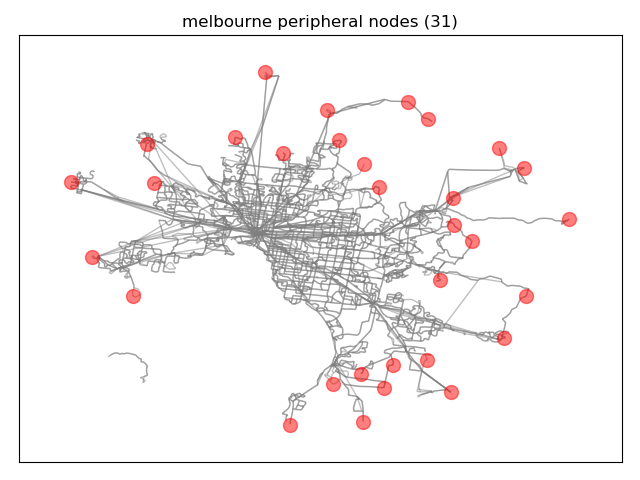
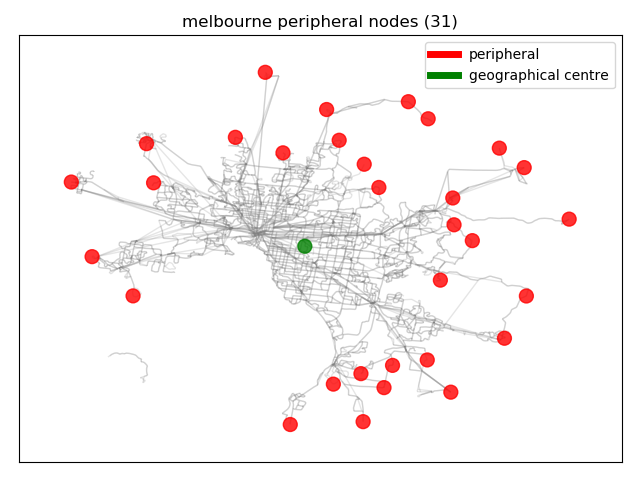
update peripheral nodes visualization

diff --git a/plot_distances.py b/plot_distances.py
@@ -7,6 +7,7 @@ if __name__ == '__main__':
 
     cities = nf.get_list_cities_names()
     capitals = nf.get_capital_cities()
+    capital_poi = nf.get_capitals_with_central_station_node()
     clusters = nf.get_cluster_dict_for_area()
 
     bfs_random = nf.load_json('results/all/json/bfs_all.json')
@@ -27,120 +28,126 @@ if __name__ == '__main__':
         if not os.path.exists(dir_plots):
             os.makedirs(dir_plots)
 
-        ''' Distances distributions: two histograms with info about mean and standard deviation '''
-        bfs_list = [value for value in bfs_random[i] if value != 0]
-        eu_list = [value for value in eu_random[i] if value != 0]
-
-        # create a third array with the fractions
-        f = [x/y for (x, y) in zip(eu_list, bfs_list)]
-        fractions[city] = f
-
-        # plot both distribution for the single city in one p the lot
-        colors = ['skyblue', 'red']
-        bins = [int(np.sqrt(len(bfs_list))/10), int(np.sqrt(len(eu_list))/10)]
-        fig, params = nf.plot_distances_for_single_city(first=bfs_list, second=eu_list, colors=colors,
-                                                        labels=["bfs", "euclidean"], bins=bins,
-                                                        xlabel='Distance in km from start node', ylabel='P(distance)')
-        # fig.show()
-        fig_name = dir_plots+'distances_histo.png'
-        fig.savefig(fig_name)
-
-        mu_st[city] = params
-
-        ''' Close and far nodes distribution from central node '''
-        close_distances = nf.load_json('results/'+city+'/distance_analysis/json/bfs_close.json')
-        far_distances = nf.load_json('results/'+city+'/distance_analysis/json/bfs_far.json')
-
-        first = list(close_distances.values())
-        second = list(far_distances.values())
-        bins = [int(np.sqrt(len(first))), int(np.sqrt(len(second)))]
-        fig1, _ = nf.plot_distances_for_single_city(first=first, second=second, colors=colors,
-                                                    labels=["close nodes", "far nodes"], bins=bins,
-                                                    xlabel='Distance in km from central node', ylabel='P(distance)')
-        fig_name = dir_plots+'close_far_distances.png'
-        fig1.savefig(fig_name)
+        # ''' Distances distributions: two histograms with info about mean and standard deviation '''
+        # bfs_list = [value for value in bfs_random[i] if value != 0]
+        # eu_list = [value for value in eu_random[i] if value != 0]
+        #
+        # # create a third array with the fractions
+        # f = [x/y for (x, y) in zip(eu_list, bfs_list)]
+        # fractions[city] = f
+        #
+        # # plot both distribution for the single city in one p the lot
+        # colors = ['skyblue', 'red']
+        # bins = [int(np.sqrt(len(bfs_list))/10), int(np.sqrt(len(eu_list))/10)]
+        # fig, params = nf.plot_distances_for_single_city(first=bfs_list, second=eu_list, colors=colors,
+        #                                                 labels=["bfs", "euclidean"], bins=bins,
+        #                                                 xlabel='Distance in km from start node', ylabel='P(distance)')
+        # # fig.show()
+        # fig_name = dir_plots+'distances_histo.png'
+        # fig.savefig(fig_name)
+        #
+        # mu_st[city] = params
+        #
+        # ''' Close and far nodes distribution from central node '''
+        # close_distances = nf.load_json('results/'+city+'/distance_analysis/json/bfs_close.json')
+        # far_distances = nf.load_json('results/'+city+'/distance_analysis/json/bfs_far.json')
+        #
+        # first = list(close_distances.values())
+        # second = list(far_distances.values())
+        # bins = [int(np.sqrt(len(first))), int(np.sqrt(len(second)))]
+        # fig1, _ = nf.plot_distances_for_single_city(first=first, second=second, colors=colors,
+        #                                             labels=["close nodes", "far nodes"], bins=bins,
+        #                                             xlabel='Distance in km from central node', ylabel='P(distance)')
+        # fig_name = dir_plots+'close_far_distances.png'
+        # fig1.savefig(fig_name)
 
         ''' Plot 1-CDF curve of distances from central node '''
         central_bfs = nf.load_json('results/'+city+'/distance_analysis/json/bfs_central.json')
-        central_eu = nf.load_json('results/'+city+'/distance_analysis/json/eu_central.json')
-        datavecs = [list(central_bfs.values()), list(central_eu.values())]
-        fig, _ = nf.plot_ccdf(datavecs=datavecs, labels=['bfs', 'euclidean'], xlabel='Distance in km', ylabel='1-CDF',
-                              marker='^')
-        fig_name = dir_plots+'ccdf_central.png'
-        fig.savefig(fig_name)
-
-        ''' Same plot but from POI node - just for capitals '''
-        if city in capitals:
-            close_distances = nf.load_json('results/' + city + '/distance_analysis/json/capital_bfs_close.json')
-            far_distances = nf.load_json('results/' + city + '/distance_analysis/json/capital_bfs_far.json')
-
-            first = list(close_distances.values())
-            second = list(far_distances.values())
-            bins = [int(np.sqrt(len(first))), int(np.sqrt(len(second)))]
-            fig1, _ = nf.plot_distances_for_single_city(first=first, second=second, colors=colors,
-                                                        labels=["close nodes", "far nodes"], bins=bins,
-                                                        xlabel='Distance in km from POI central node',
-                                                        ylabel='P(distance)')
-
-            # fig1.show()
-            fig_name = dir_plots + 'capital_close_far_distances.png'
-            fig1.savefig(fig_name)
-
-            central_bfs_capital = nf.load_json('results/' + city + '/distance_analysis/json/capital_bfs_central.json')
-            central_eu_capital = nf.load_json('results/' + city + '/distance_analysis/json/capital_eu_central.json')
-            datavecs = [list(central_bfs_capital.values()), list(central_eu_capital.values())]
-            fig, _ = nf.plot_ccdf(datavecs=datavecs, labels=['bfs', 'euclidean'], xlabel='Distance in km',
-                                  ylabel='1-CDF', marker='^')
-            fig_name = dir_plots + 'ccdf_central_POI.png'
-            fig.savefig(fig_name)
+        # central_eu = nf.load_json('results/'+city+'/distance_analysis/json/eu_central.json')
+        # datavecs = [list(central_bfs.values()), list(central_eu.values())]
+        # fig, _ = nf.plot_ccdf(datavecs=datavecs, labels=['bfs', 'euclidean'], xlabel='Distance in km', ylabel='1-CDF',
+        #                       marker='^')
+        # fig_name = dir_plots+'ccdf_central.png'
+        # fig.savefig(fig_name)
+        #
+        # ''' Same plot but from POI node - just for capitals '''
+        # if city in capitals:
+        #     close_distances = nf.load_json('results/' + city + '/distance_analysis/json/capital_bfs_close.json')
+        #     far_distances = nf.load_json('results/' + city + '/distance_analysis/json/capital_bfs_far.json')
+        #
+        #     first = list(close_distances.values())
+        #     second = list(far_distances.values())
+        #     bins = [int(np.sqrt(len(first))), int(np.sqrt(len(second)))]
+        #     fig1, _ = nf.plot_distances_for_single_city(first=first, second=second, colors=colors,
+        #                                                 labels=["close nodes", "far nodes"], bins=bins,
+        #                                                 xlabel='Distance in km from POI central node',
+        #                                                 ylabel='P(distance)')
+        #
+        #     # fig1.show()
+        #     fig_name = dir_plots + 'capital_close_far_distances.png'
+        #     fig1.savefig(fig_name)
+        #
+        #     central_bfs_capital = nf.load_json('results/' + city + '/distance_analysis/json/capital_bfs_central.json')
+        #     central_eu_capital = nf.load_json('results/' + city + '/distance_analysis/json/capital_eu_central.json')
+        #     datavecs = [list(central_bfs_capital.values()), list(central_eu_capital.values())]
+        #     fig, _ = nf.plot_ccdf(datavecs=datavecs, labels=['bfs', 'euclidean'], xlabel='Distance in km',
+        #                           ylabel='1-CDF', marker='^')
+        #     fig_name = dir_plots + 'ccdf_central_POI.png'
+        #     fig.savefig(fig_name)
 
         plt.close('all')
 
-        ''' Cumulative distribution of distances from central node '''
-
         ''' Network plot of periferal nodes '''
         peripheral_dict = nf.load_json('results/'+city+'/distance_analysis/json/peripheral_nodes.json')
-        peripheral_nodes = [int(node) for node, is_peripheral in peripheral_dict.items() if is_peripheral is True]
+        # peripheral_nodes = [int(node) for node, is_peripheral in peripheral_dict.items() if is_peripheral is True]
+        peripheral_nodes = {int(node): 'r' for node, is_peripheral in peripheral_dict.items()
+                            if is_peripheral is True}
+        n_peripheral = len(peripheral_nodes)
+        central_node = int(list(central_bfs.keys())[0])
+        peripheral_nodes[central_node] = 'g'
+        if city in capitals:
+            central_poi = capital_poi[city]
+            peripheral_nodes[central_poi] = 'b'
 
         net = nf.create_network(city, types=nf.get_types_of_transport_and_colors())
-        percentage = (len(peripheral_nodes) / len(net.nodes()))*100
+        percentage = (n_peripheral / len(net.nodes()))*100
         print('There are %d peripheral nodes.\n They represent %d %% of all the nodes.'
-              % (len(peripheral_nodes), percentage))
-        fig, ax = nf.plot_network(net, node_list=peripheral_nodes)
-        ax.set_title(city+' peripheral nodes (%d)' % len(peripheral_nodes))
+              % (n_peripheral, percentage))
+        fig, ax = nf.plot_network(net, node_dict=peripheral_nodes)
+        ax.set_title(city+' peripheral nodes (%d)' % n_peripheral)
         fig.show()
         fig_name = dir_plots+'network_peripheral_nodes.png'
         fig.savefig(fig_name)
 
-    nf.dump_json('results/all/json/parameter_distances.json', mu_st)
-
-    for cluster, values in clusters.items():
-
-        f = {k: v for k, v in fractions.items() if k in values}
-        fig = nf.plot_distances_fractions(f)
-        dir_name = './results/all/plots/distances/fractions/'
-        if not os.path.exists(dir_name):
-            os.makedirs(dir_name)
-        fig_name = dir_name+'fractions_'+cluster+'_.png'
-        fig.savefig(fig_name, bbox_inches='tight')
-
-    dict_mu_st = nf.load_json('results/all/json/parameter_distances.json')
-    ordered_dict = sorted(dict_mu_st.items(), key=lambda item: item[1][0])
-    labels_bfs = [elem[0] for elem in ordered_dict]
-
-    area_population_dict_ordered = nf.order_dict_based_on_list_keys(area_population_dict, labels_bfs)
-    areas = [v['area'] for k, v in area_population_dict_ordered.items()]
-
-    fig = nf.plot_bars_mu_st(labels=labels_bfs, mus=[elem[1][0] for elem in ordered_dict],
-                             sts=[elem[1][1] for elem in ordered_dict], ylabel='Distance in km', color='skyblue',
-                             title='BFS distances from random source nodes', feature=areas, feature_label='Area')
-    # fig.show()
-    fig_name = './results/all/plots/distances/bfs_bar_mu_st.png'
-    fig.savefig(fig_name, bbox_inches='tight')
-
-    fig = nf.plot_bars_mu_st(labels=labels_bfs, mus=[elem[1][2] for elem in ordered_dict],
-                             sts=[elem[1][3] for elem in ordered_dict], ylabel='Distance in km', color='red',
-                             title='EUCLIDEAN distances from random source nodes', feature=areas, feature_label='Area')
-    # fig.show()
-    fig_name = './results/all/plots/distances/eu_bar_mu_st.png'
-    fig.savefig(fig_name, bbox_inches='tight')
+    # nf.dump_json('results/all/json/parameter_distances.json', mu_st)
+    #
+    # for cluster, values in clusters.items():
+    #
+    #     f = {k: v for k, v in fractions.items() if k in values}
+    #     fig = nf.plot_distances_fractions(f)
+    #     dir_name = './results/all/plots/distances/fractions/'
+    #     if not os.path.exists(dir_name):
+    #         os.makedirs(dir_name)
+    #     fig_name = dir_name+'fractions_'+cluster+'_.png'
+    #     fig.savefig(fig_name, bbox_inches='tight')
+    #
+    # dict_mu_st = nf.load_json('results/all/json/parameter_distances.json')
+    # ordered_dict = sorted(dict_mu_st.items(), key=lambda item: item[1][0])
+    # labels_bfs = [elem[0] for elem in ordered_dict]
+    #
+    # area_population_dict_ordered = nf.order_dict_based_on_list_keys(area_population_dict, labels_bfs)
+    # areas = [v['area'] for k, v in area_population_dict_ordered.items()]
+    #
+    # fig = nf.plot_bars_mu_st(labels=labels_bfs, mus=[elem[1][0] for elem in ordered_dict],
+    #                          sts=[elem[1][1] for elem in ordered_dict], ylabel='Distance in km', color='skyblue',
+    #                          title='BFS distances from random source nodes', feature=areas, feature_label='Area')
+    # # fig.show()
+    # fig_name = './results/all/plots/distances/bfs_bar_mu_st.png'
+    # fig.savefig(fig_name, bbox_inches='tight')
+    #
+    # fig = nf.plot_bars_mu_st(labels=labels_bfs, mus=[elem[1][2] for elem in ordered_dict],
+    #                          sts=[elem[1][3] for elem in ordered_dict], ylabel='Distance in km', color='red',
+    #                          title='EUCLIDEAN distances from random source nodes', feature=areas, feature_label='Area')
+    # # fig.show()
+    # fig_name = './results/all/plots/distances/eu_bar_mu_st.png'
+    # fig.savefig(fig_name, bbox_inches='tight')

diff --git a/network_functions.py b/network_functions.py
@@ -246,13 +246,13 @@ def make_proxy(clr, **kwargs):
     return Line2D([0, 1], [0, 1], color=clr, **kwargs)
 
 
-def plot_network(net, node_list=None):
+def plot_network(net, node_dict=None):
     """
     Plot networkx object for the specified city
     Each edge has its color depending on the route type and the node shape is '' because they are not displayed
 
     :param net: networkx obj
-    :param node_list: nodes to be represented
+    :param node_dict: nodes to be represented with corresponding color
     """
     colors = nx.get_edge_attributes(net, 'color').values()
     all_colors = set(colors)
@@ -263,15 +263,21 @@ def plot_network(net, node_list=None):
     fig = plt.figure()
     ax = fig.add_subplot(1, 1, 1)
 
-    if node_list is None:
+    if node_dict is None:
         nx.draw_networkx(net, ax=ax, pos=nx.get_node_attributes(net, 'pos'), with_labels=False, node_size=5,
                          node_shape='', edge_color=colors, alpha=0.5)
         proxies = [make_proxy(clr, lw=5) for clr in edge_types.keys()]
         labels = [edge_type for clr, edge_type in edge_types.items()]
         plt.legend(proxies, labels)
     else:
-        nx.draw_networkx(net, ax=ax, pos=nx.get_node_attributes(net, 'pos'), with_labels=False, node_size=100,
-                         nodelist=node_list, node_color='red', alpha=0.5, edge_color='gray')
+        nx.draw_networkx_nodes(net, ax=ax, pos=nx.get_node_attributes(net, 'pos'), with_labels=False, node_size=100,
+                               nodelist=list(node_dict.keys()), node_color=list(node_dict.values()), alpha=0.8)
+        nx.draw_networkx_edges(net, pos=nx.get_node_attributes(net, 'pos'), edge_color='gray', alpha=0.2)
+        proxies = [make_proxy(clr, lw=5) for clr in set(node_dict.values())]
+        labels = ['peripheral', 'geographical centre']
+        if len(set(node_dict.values())) == 3:
+            labels.append('POI centre')
+        plt.legend(proxies, labels)
 
     # to change background color --> ax.set_facecolor('k')
     ax.get_xaxis().set_visible(False)
